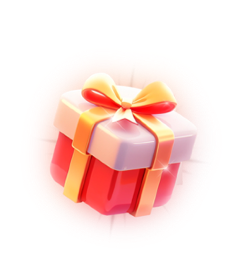
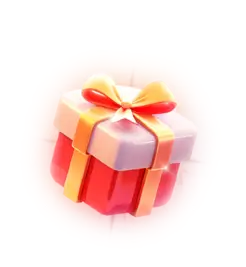
图片压缩

diff --git a/src/pages/home/components/floor/home-floor-box.tsx b/src/pages/home/components/floor/home-floor-box.tsx
@@ -35,8 +35,6 @@ interface HomeFloorBoxProps<listItemT> {
   onPressViewAll?: () => void;
   type?: string;
 }
-// const huoIcon = require('@assets/animated/fire.gif');
-
 class HomeFloorBox<listItemT> extends Component<
   HomeFloorBoxProps<listItemT>,
   {
